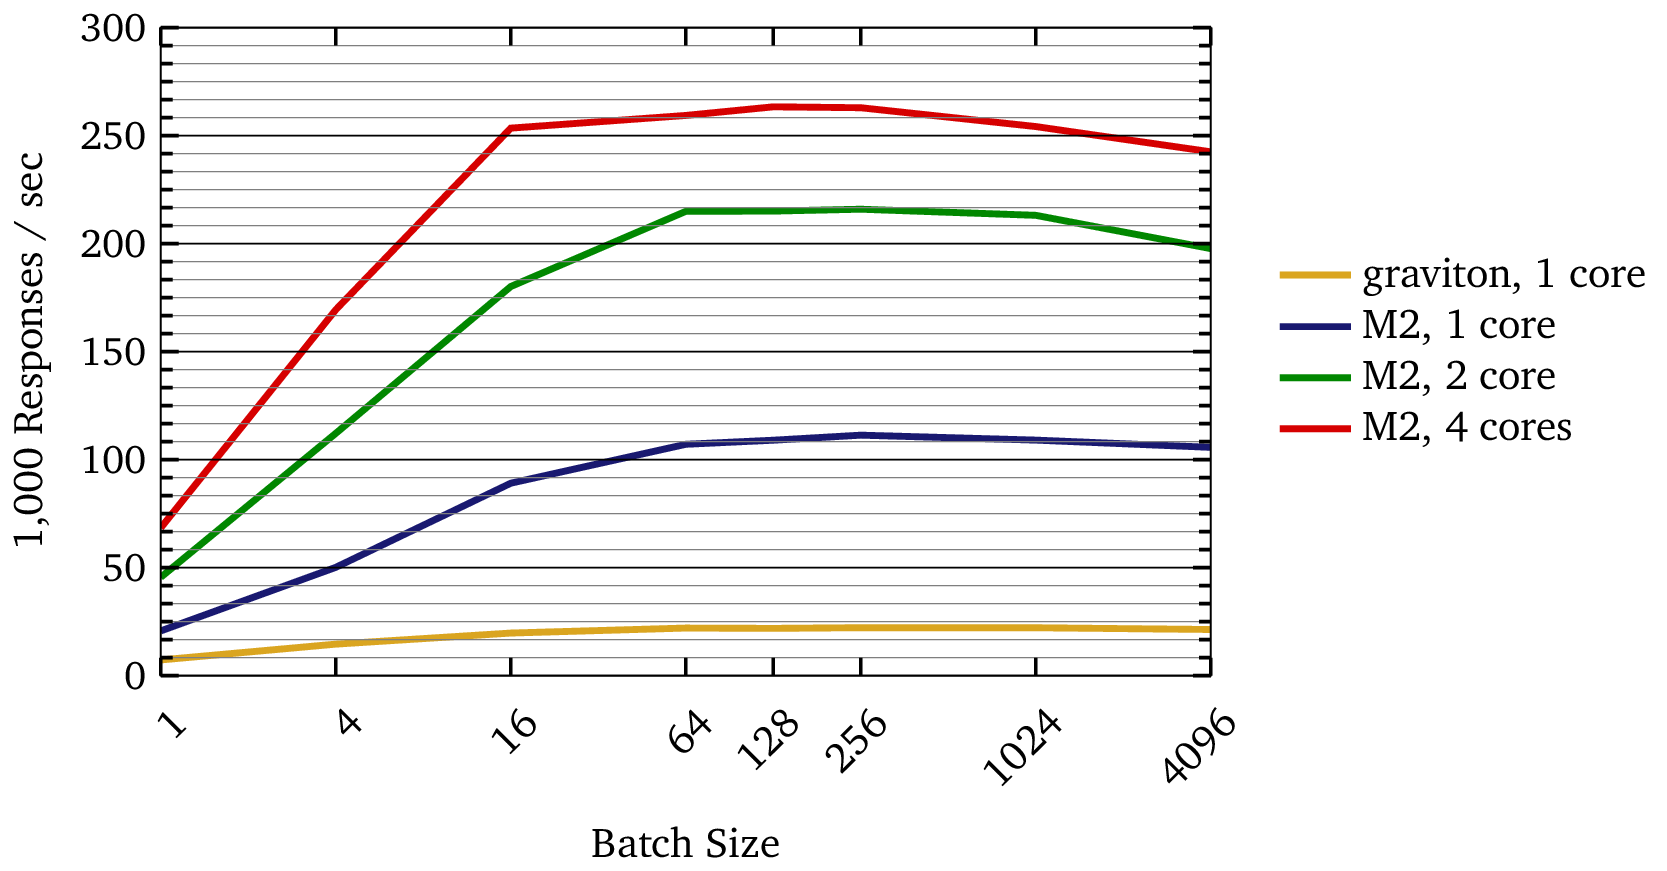
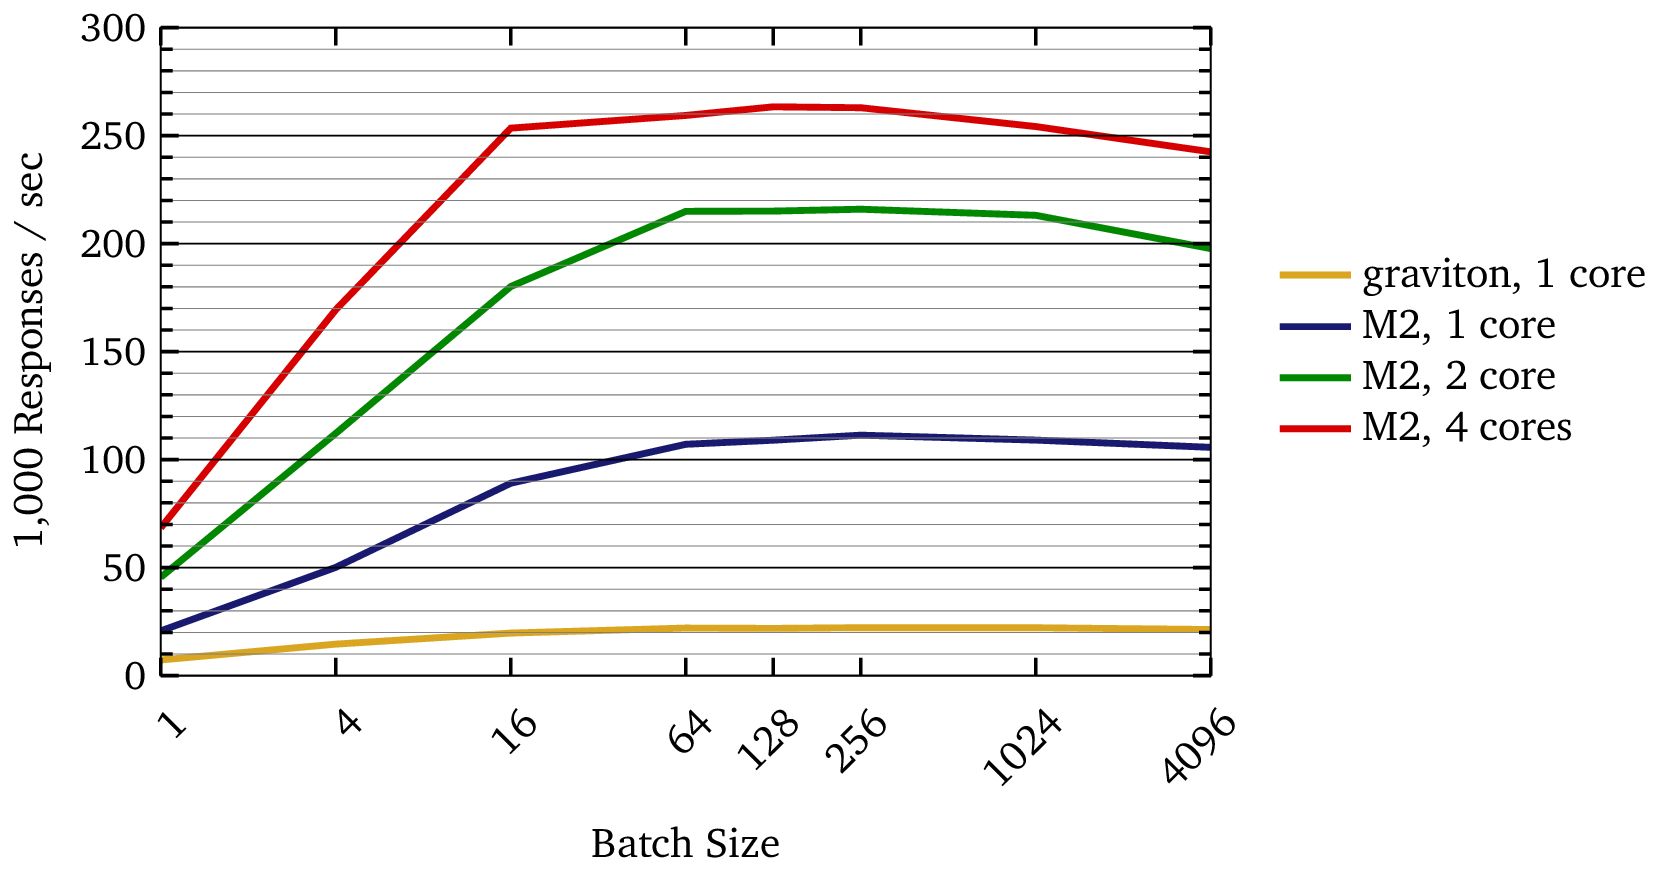
fix plot and adjust README

Changed region(s): [[0.0936, 0.031, 0.7487, 0.775]]

diff --git a/plots/throughput.tex b/plots/throughput.tex
@@ -31,7 +31,7 @@
     %
     ymin=0, ymax=300,
     ytick distance=50,  % major ticks every 50k
-    minor y tick num=5, % minor ticks every 10k
+    minor y tick num=4, % minor ticks every 10k
     %
     ymajorgrids=true,
     yminorgrids=true,

diff --git a/README.md b/README.md
@@ -17,6 +17,10 @@ The library aims to support *all* non-expired protocol versions, spanning both t
 
 [![Clojars Project](https://img.shields.io/clojars/v/com.sturdystats/roughtime-protocol.svg)](https://clojars.org/com.sturdystats/roughtime-protocol)
 
+```clojure
+{:deps {com.sturdystats/roughtime-protocol {:mvn/version "VERSION"}}}
+```
+
 ## Protocol support
 
 All versions are supported **except** the expired IETF drafts **5** and **7**.
@@ -169,51 +173,51 @@ Example measurements responding to protocol version 15 on a 2023 M2 MacBook Air,
 (The Google protocol is approximately 2× faster.)
 While this codebase is not intended for high-traffic production environments, it may be suitable for real-world use.
 
-<!-- ### Benchmarks (Per-Request Latency) -->
+### Benchmarks (Per-Request Latency)
 
-<!-- The following table compares the latency per request when processing 5,000 requests, either serially or in batches of 128. -->
+The following table compares the latency per request when processing 5,000 requests, either serially or in batches of 128.
 
-<!-- | Codebase   | Batch Size | Version       | Signature | Per Request (μs) | -->
-<!-- |------------|-----------:|---------------|-----------|-----------------:| -->
-<!-- | Google C++ |          1 | Google        | tweetnacl |              675 | -->
-<!-- | Google C++ |          1 | Google        | stubbed   |              1.8 | -->
-<!-- |------------|-----------:|---------------|-----------|-----------------:| -->
-<!-- | Clojure    |          1 | Google        | native    |             26.6 | -->
-<!-- | Clojure    |          1 | Google        | stubbed   |              4.3 | -->
-<!-- |------------|-----------:|---------------|-----------|-----------------:| -->
-<!-- | Clojure    |          1 | IETF Draft 15 | native    |             31.7 | -->
-<!-- | Clojure    |          1 | IETF Draft 15 | stubbed   |              9.2 | -->
-<!-- |------------|-----------:|---------------|-----------|-----------------:| -->
-<!-- | Clojure    |        128 | IETF Draft 15 | native    |              4.4 | -->
-<!-- | Clojure    |        128 | IETF Draft 15 | stubbed   |              4.2 | -->
-<!-- |------------|-----------:|---------------|-----------|-----------------:| -->
-<!-- | Clojure    |       1024 | random, mixed | native    |              7.7 | -->
-<!-- | Clojure    |       1024 | random, mixed | stubbed   |              7.6 | -->
+| Codebase   | Batch Size | Version       | Signature | Per Request (μs) |
+|------------|-----------:|---------------|-----------|-----------------:|
+| Google C++ |          1 | Google        | tweetnacl |              675 |
+| Google C++ |          1 | Google        | stubbed   |              1.8 |
+|------------|-----------:|---------------|-----------|-----------------:|
+| Clojure    |          1 | Google        | native    |             26.6 |
+| Clojure    |          1 | Google        | stubbed   |              4.3 |
+|------------|-----------:|---------------|-----------|-----------------:|
+| Clojure    |          1 | IETF Draft 15 | native    |             31.7 |
+| Clojure    |          1 | IETF Draft 15 | stubbed   |              9.2 |
+|------------|-----------:|---------------|-----------|-----------------:|
+| Clojure    |        128 | IETF Draft 15 | native    |              4.4 |
+| Clojure    |        128 | IETF Draft 15 | stubbed   |              4.2 |
+|------------|-----------:|---------------|-----------|-----------------:|
+| Clojure    |       1024 | random, mixed | native    |              7.7 |
+| Clojure    |       1024 | random, mixed | stubbed   |              7.6 |
 
-<!-- to reproduce these results, run `clj -X:load-test` -->
+to reproduce these results, run `clj -X:load-test`
 
-<!-- ``` -->
-<!-- Running with BouncyCastle ED25519 signatures -->
+```
+Running with BouncyCastle ED25519 signatures
 
-<!-- Evaluation count : 22686 in 6 samples of 3781 calls. -->
-<!--              Execution time mean : 26.613360 µs -->
-<!--     Execution time std-deviation : 76.163262 ns -->
-<!--    Execution time lower quantile : 26.530910 µs ( 2.5%) -->
-<!--    Execution time upper quantile : 26.689283 µs (97.5%) -->
-<!--                    Overhead used : 1.268150 ns -->
+Evaluation count : 22686 in 6 samples of 3781 calls.
+             Execution time mean : 26.613360 µs
+    Execution time std-deviation : 76.163262 ns
+   Execution time lower quantile : 26.530910 µs ( 2.5%)
+   Execution time upper quantile : 26.689283 µs (97.5%)
+                   Overhead used : 1.268150 ns
 
 
-<!-- Running with ED25519 signatures stubbed to no-op -->
+Running with ED25519 signatures stubbed to no-op
 
-<!-- Evaluation count : 143532 in 6 samples of 23922 calls. -->
-<!--              Execution time mean : 4.298360 µs -->
-<!--     Execution time std-deviation : 141.983103 ns -->
-<!--    Execution time lower quantile : 4.176511 µs ( 2.5%) -->
-<!--    Execution time upper quantile : 4.455419 µs (97.5%) -->
-<!--                    Overhead used : 1.268150 ns -->
+Evaluation count : 143532 in 6 samples of 23922 calls.
+             Execution time mean : 4.298360 µs
+    Execution time std-deviation : 141.983103 ns
+   Execution time lower quantile : 4.176511 µs ( 2.5%)
+   Execution time upper quantile : 4.455419 µs (97.5%)
+                   Overhead used : 1.268150 ns
 
-<!-- … -->
-<!-- ``` -->
+…
+```
 
 ## API
 
